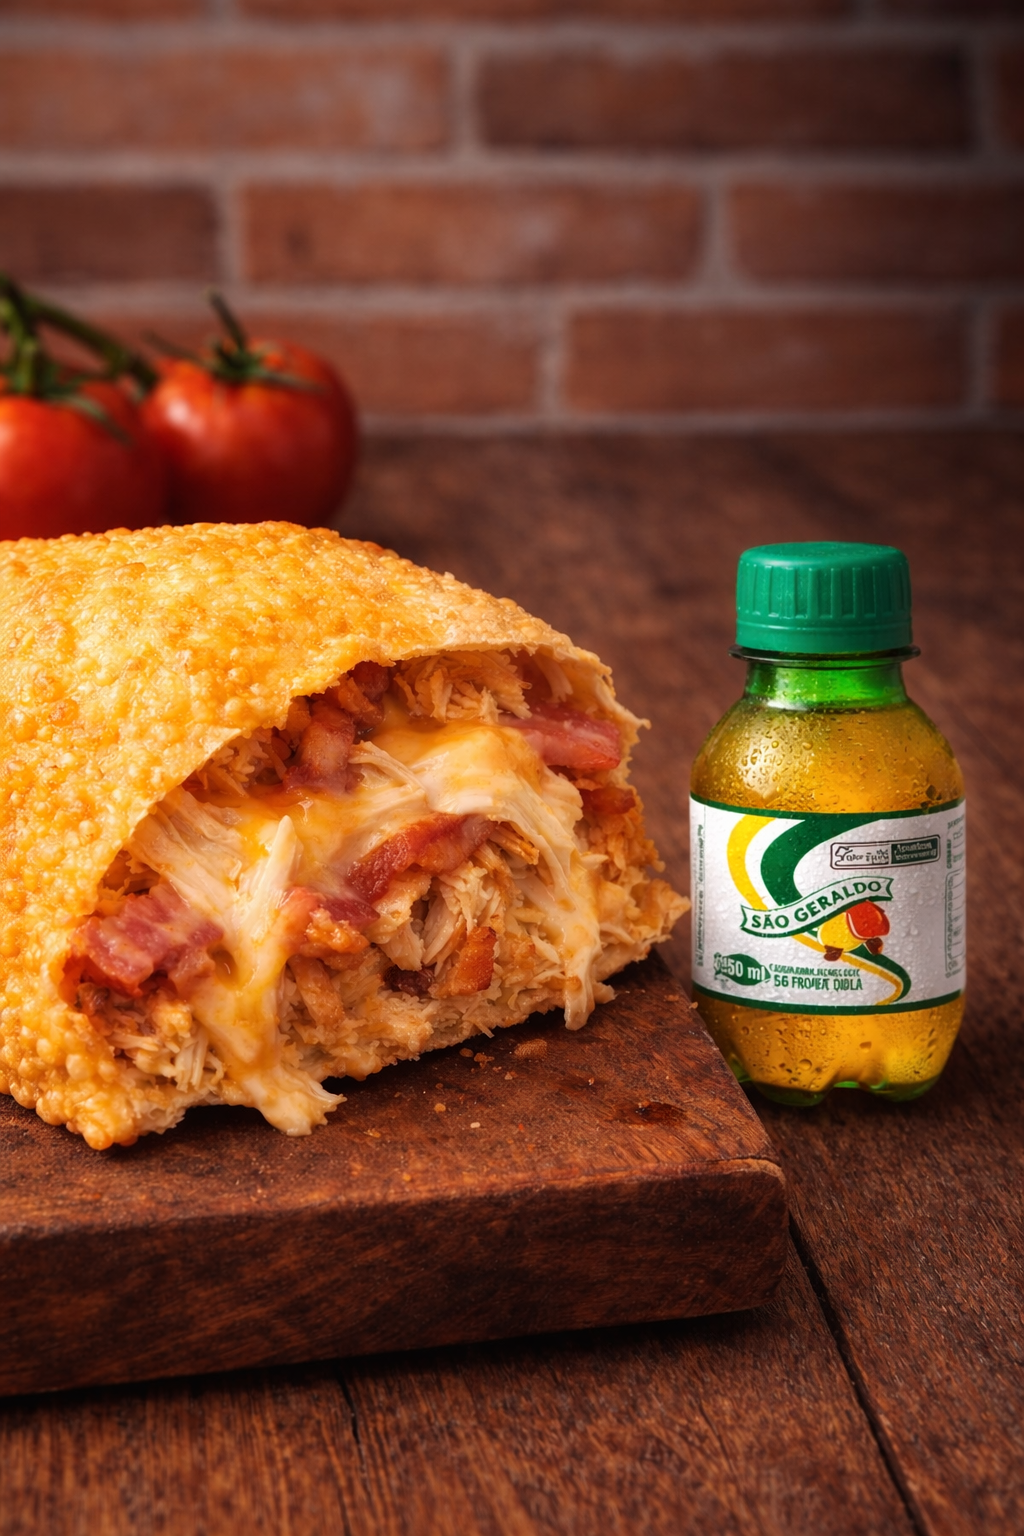
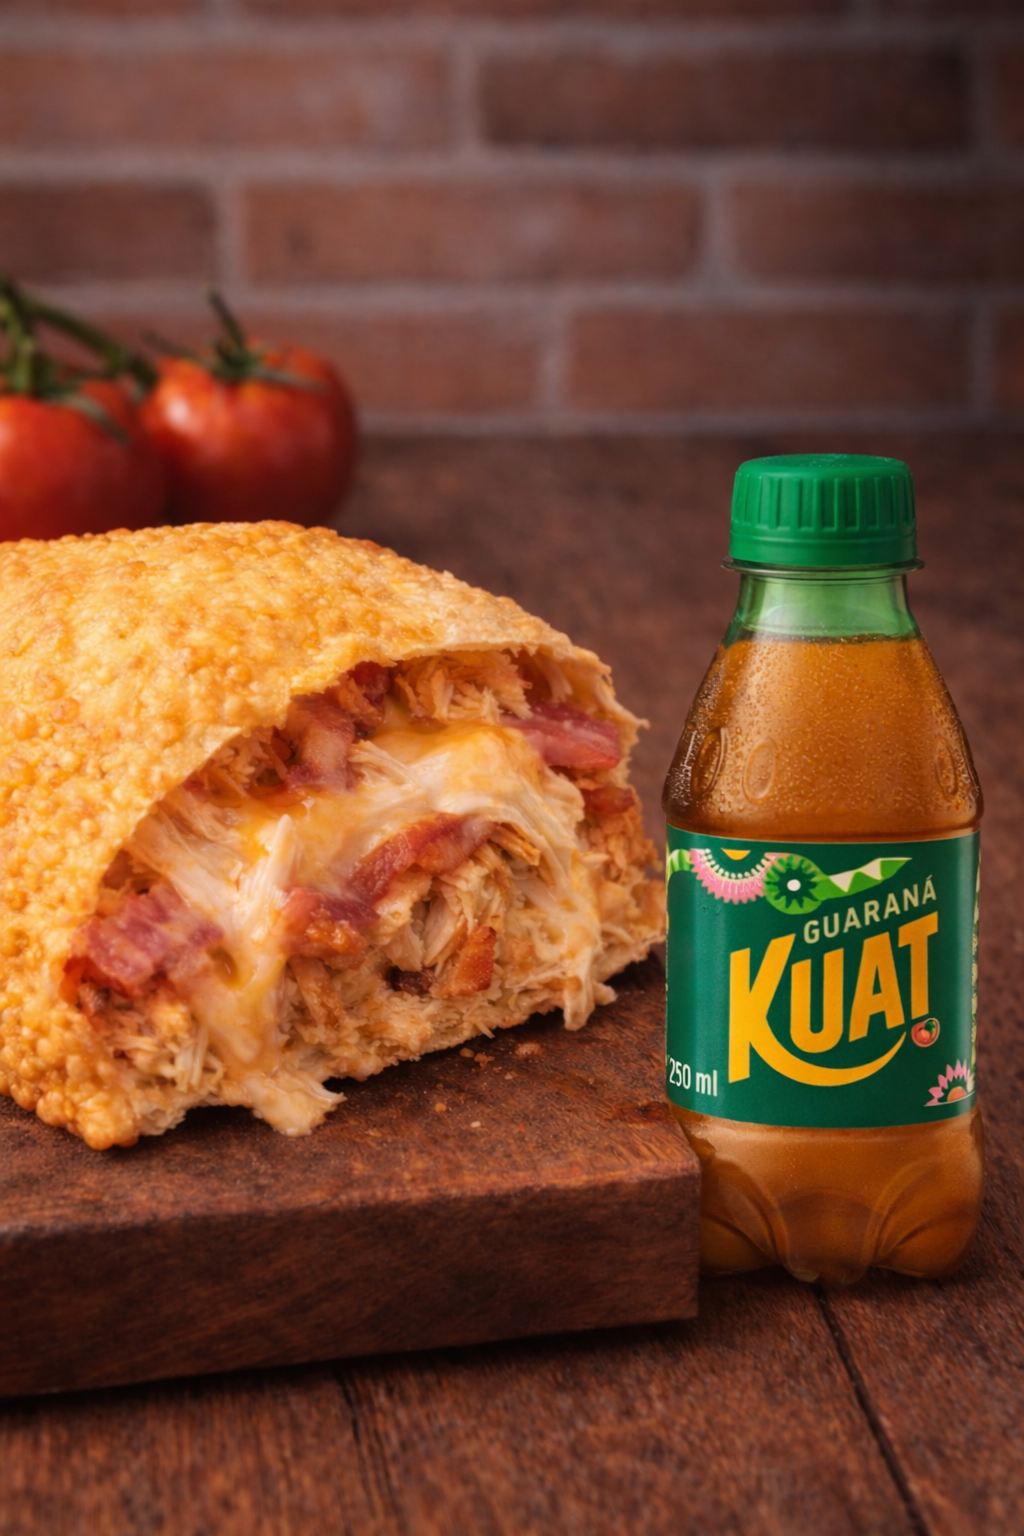
ajustes de preços

diff --git a/index.html b/index.html
@@ -129,10 +129,10 @@
         </div>
       </div>
 
-      <div class="item" data-nome="Pastel frango com queijo e bacon + São Geraldo 200ml " data-preco="15">
+      <div class="item" data-nome="Pastel frango com queijo e bacon + Guaraná Kuat Garrafa 250ml " data-preco="15">
         <div class="info">
-          <h3>Pastel Frango com queijo e bacon + São Geraldo 200ml</h3>
-          <p class="descricao">Pastel recheado Pastel Frango com queijo mussarela e bacon. + refri 200ml
+          <h3>Pastel Frango com queijo e bacon + Guaraná Kuat Garrafa 250ml</h3>
+          <p class="descricao">Pastel recheado Pastel Frango com queijo mussarela e bacon. + refri 250ml
           </p>
           <p class="descricao">
           </p>
